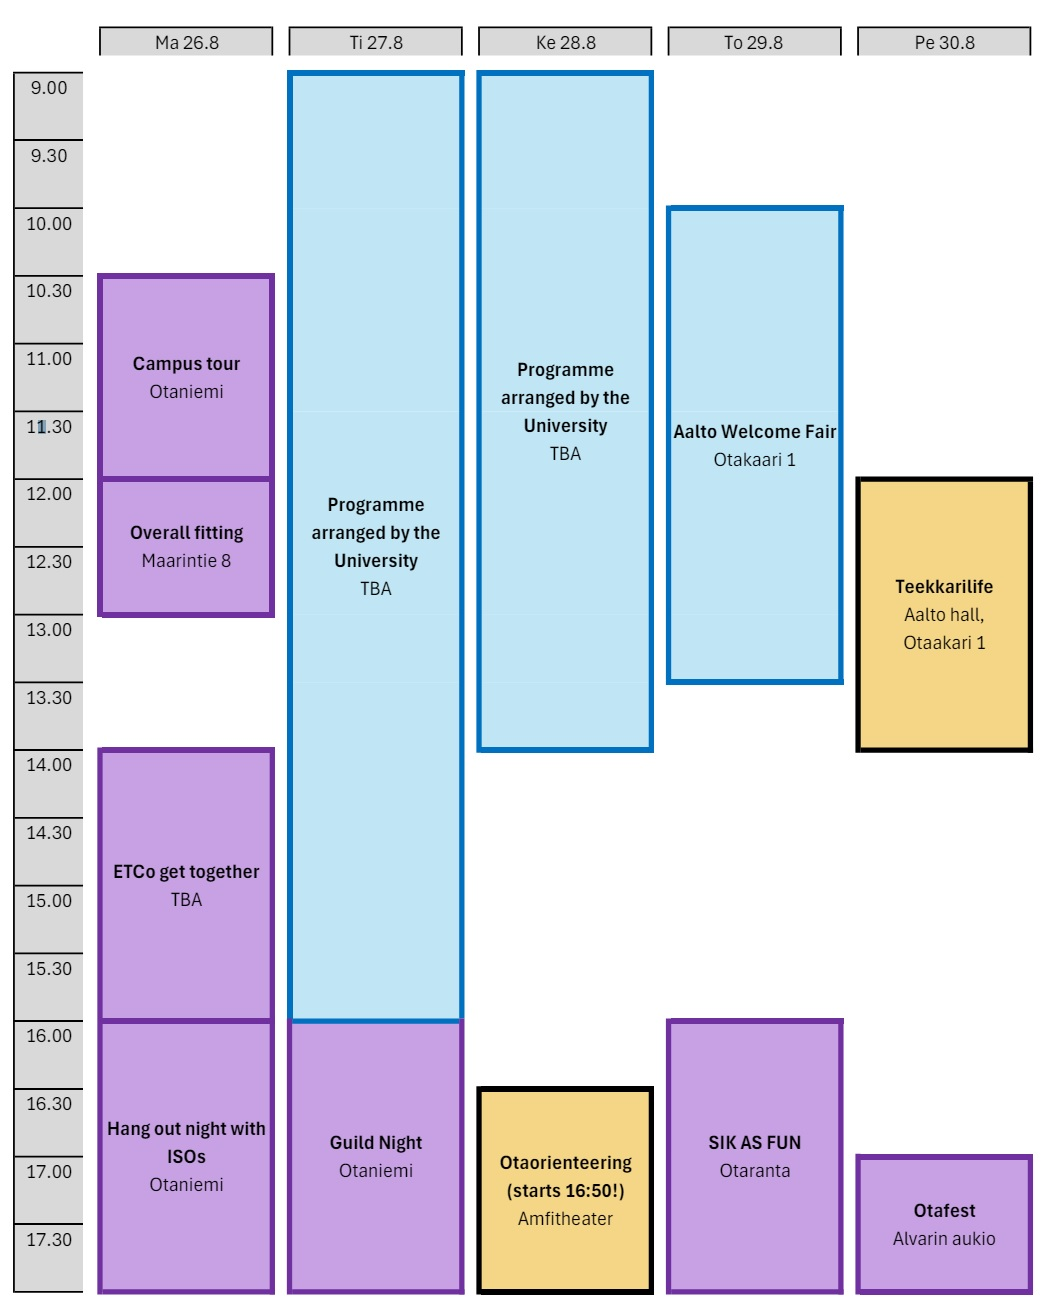
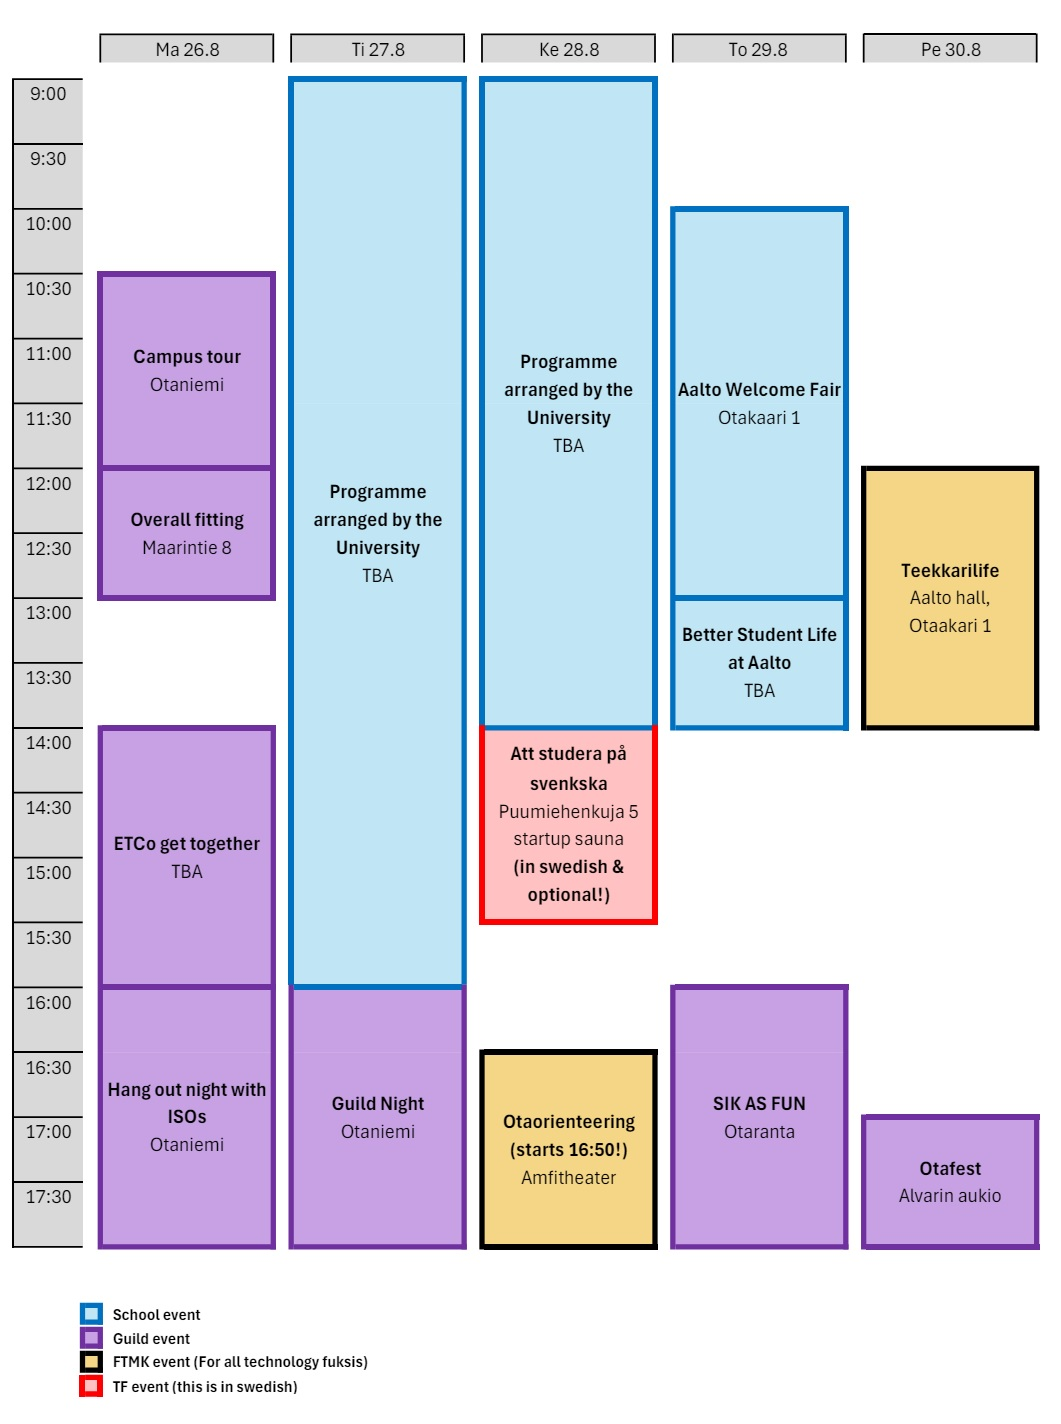
korjattu aikatauluja enkuks ja lisätty suomenkielinen

diff --git a/src/pages/fuksis/orientationweek.tsx b/src/pages/fuksis/orientationweek.tsx
@@ -20,10 +20,10 @@ const Orientaatioviikko: React.FC<PageProps> = ({ pageContext }) => {
         <div className="image-container">
           <p>Orientaatioviikko on hektistä aikaa, tekemistä on paljon!</p>
           <p>Tässä orientaatioviikon aikataulu, päivittelemme tätä parhaamme mukaan kesän aikana.</p>
-          <StaticImage className="centered-image" src='../../images/images/DSD_timetable.jpg' alt='"DSD_timetable'/>
+          <StaticImage className="centered-image" src='../../images/images/orientaation_aikataulu.jpg' alt='"DSD_timetable'/>
         </div>
         <div>
-          <p>If you have any questions about the schedule or starting your studies, don't be afraid to message us at fuksikapteenit@as.fi or on telegram @fuksikapteenit</p>
+          <p>Jos herää mitään kysymyksiä orientaatioviikosta tai opiskeluiden aloituksesta, laita pienellä kynnyksellä viestiä <strong>fuksikapteenit@as.fi</strong> tai telegramissa <strong>@fuksikapteenit</strong></p>
 
           <p>Nauttikaa kesästä!</p>
           <p>Fuksikapteenisi: Eero ja Jenny</p>

diff --git a/src/pages/en/fuksis/orientationweek.tsx b/src/pages/en/fuksis/orientationweek.tsx
@@ -23,7 +23,8 @@ const Orientaatioviikko: React.FC<PageProps> = ({ pageContext }) => {
           <StaticImage className="centered-image" src='../../../images/images/DSD_timetable.jpg' alt='"DSD_timetable'/>
         </div>
         <div>
-          <p>If you have any questions about the schedule or starting your studies, don't be afraid to message us at fuksikapteenit@as.fi or on telegram @fuksikapteenit</p>
+          <p>More information about Universitys own program (blue slots) can be found <a target='_self' href='https://www.aalto.fi/en/programmes/aalto-bachelors-programme-in-science-and-technology/starting-your-studies'>here.</a></p>
+          <p>If you have any questions about the schedule or starting your studies, don't be afraid to message us at <strong>fuksikapteenit@as.fi</strong> or on telegram <strong>@fuksikapteenit</strong></p>
 
           <p>Have a lovely summer!</p>
           <p>Your Fuksi Captains: Eero and Jenny</p>
